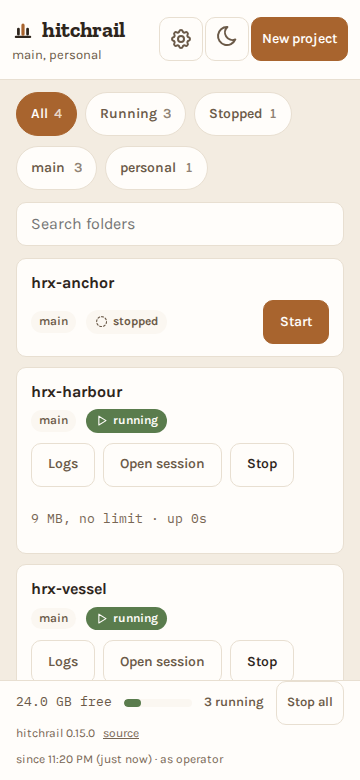
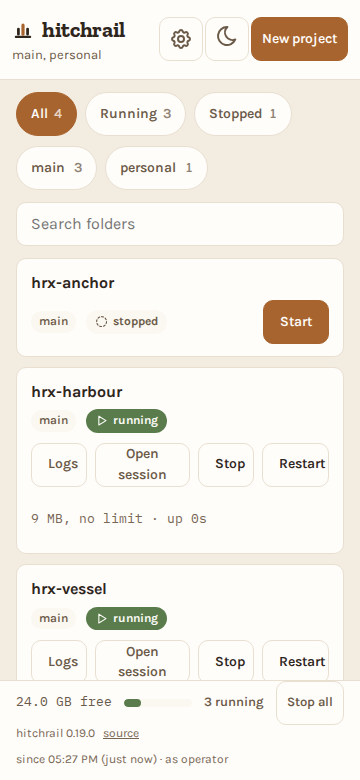
chore(release): 0.19.0, more than one agent, with agy's trust behaviour stated in the notes since #504 is still undecided
Minor: an existing config needs no change. #504 stays open for Andrea's
choice; the changelog already says plainly that a root running agy trusts
every folder under it without asking.

Claude-Session: https://claude.ai/code/session_012dekTwgaQAu3qAXGbMhHjp

diff --git a/CHANGELOG.md b/CHANGELOG.md
@@ -32,6 +32,8 @@ While the version is `0.y.z`, a breaking change may ship as a MINOR.
 
 ## Unreleased
 
+## 0.19.0 - 2026-10-10
+
 ### Added
 
 - The config file can name more than one agent: an `[agents.<id>]` table
